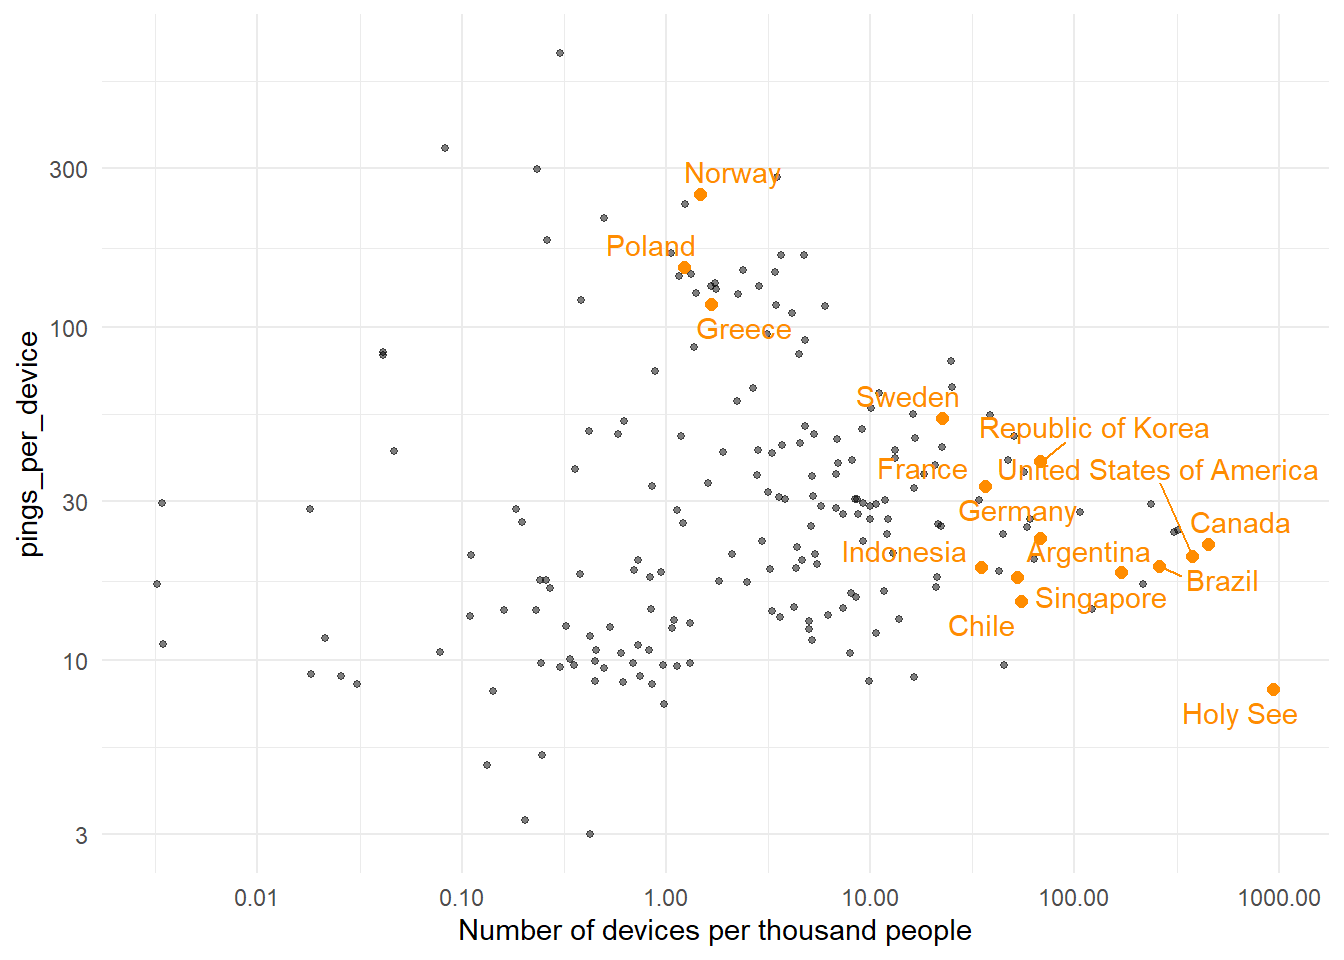
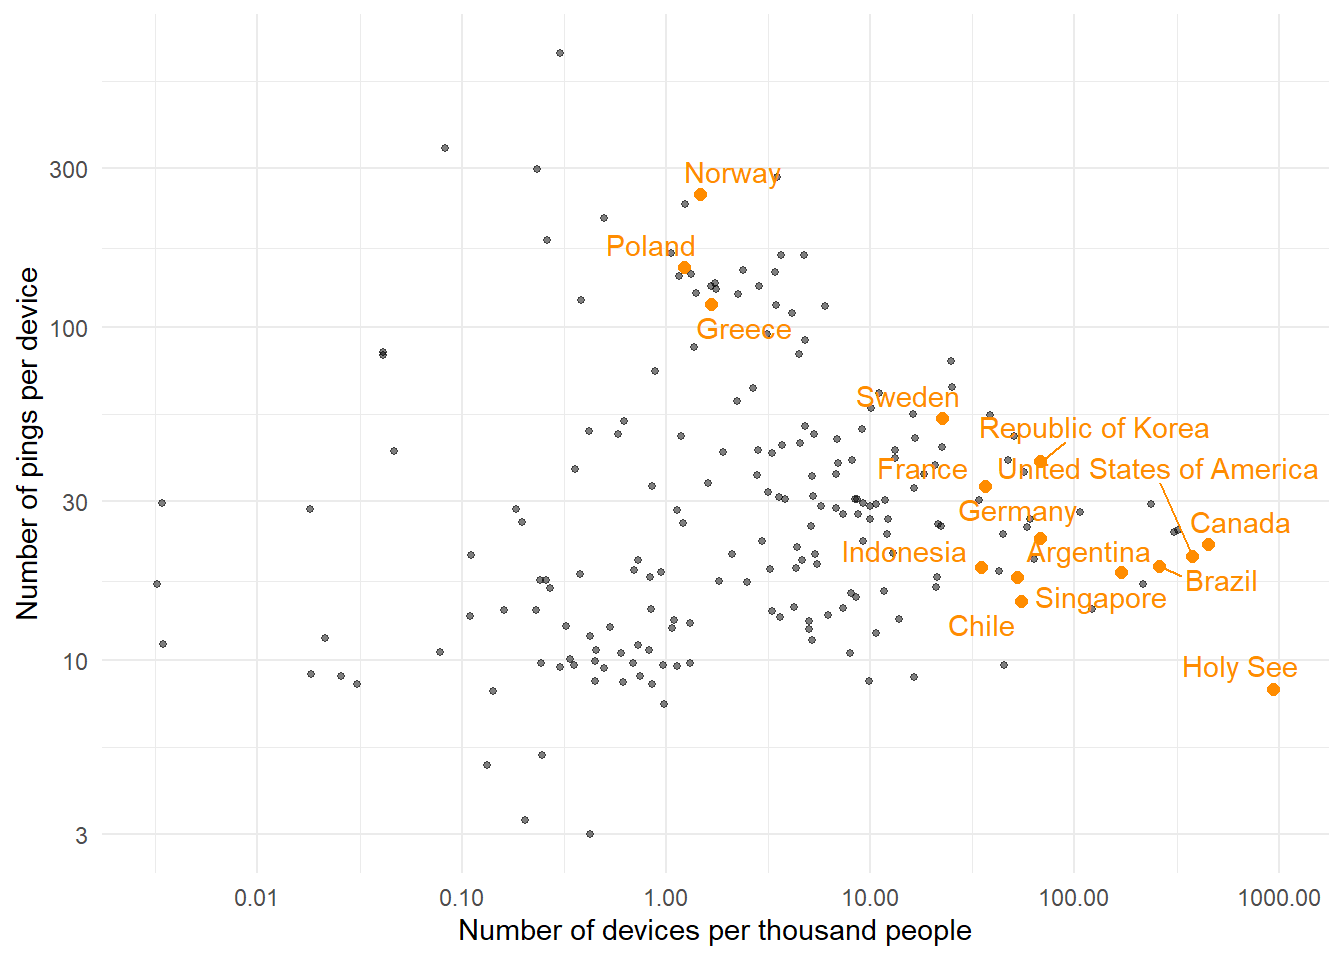
Fixed y-axis label.

diff --git a/charts.html b/charts.html
@@ -241,8 +241,9 @@ pre > code.sourceCode > span > a:first-child::before { text-decoration: underlin
 <span id="cb4-19"><a href="#cb4-19" aria-hidden="true" tabindex="-1"></a>                       <span class="at">name =</span> <span class="st">"Number of devices per thousand people"</span>,</span>
 <span id="cb4-20"><a href="#cb4-20" aria-hidden="true" tabindex="-1"></a>                       <span class="at">breaks =</span> breaks <span class="ot">&lt;-</span> <span class="dv">10</span><span class="sc">^</span><span class="fu">seq</span>(<span class="sc">-</span><span class="dv">2</span>, <span class="dv">3</span>, <span class="at">by=</span><span class="dv">1</span>),</span>
 <span id="cb4-21"><a href="#cb4-21" aria-hidden="true" tabindex="-1"></a>                       <span class="at">labels =</span> <span class="fu">formatC</span>(breaks, <span class="at">format =</span> <span class="st">"f"</span>, <span class="at">digits =</span> <span class="dv">2</span>)) <span class="sc">+</span></span>
-<span id="cb4-22"><a href="#cb4-22" aria-hidden="true" tabindex="-1"></a>    <span class="fu">scale_y_continuous</span>(<span class="at">transform =</span> <span class="st">"log10"</span>) <span class="sc">+</span></span>
-<span id="cb4-23"><a href="#cb4-23" aria-hidden="true" tabindex="-1"></a>    <span class="fu">theme_minimal</span>()</span></code></pre></div><button title="Copy to Clipboard" class="code-copy-button"><i class="bi"></i></button></div>
+<span id="cb4-22"><a href="#cb4-22" aria-hidden="true" tabindex="-1"></a>    <span class="fu">scale_y_continuous</span>(<span class="at">transform =</span> <span class="st">"log10"</span>,</span>
+<span id="cb4-23"><a href="#cb4-23" aria-hidden="true" tabindex="-1"></a>                       <span class="at">name =</span> <span class="st">"Number of pings per device"</span>) <span class="sc">+</span></span>
+<span id="cb4-24"><a href="#cb4-24" aria-hidden="true" tabindex="-1"></a>    <span class="fu">theme_minimal</span>()</span></code></pre></div><button title="Copy to Clipboard" class="code-copy-button"><i class="bi"></i></button></div>
 <div class="cell-output-display">
 <div>
 <figure class="figure">
